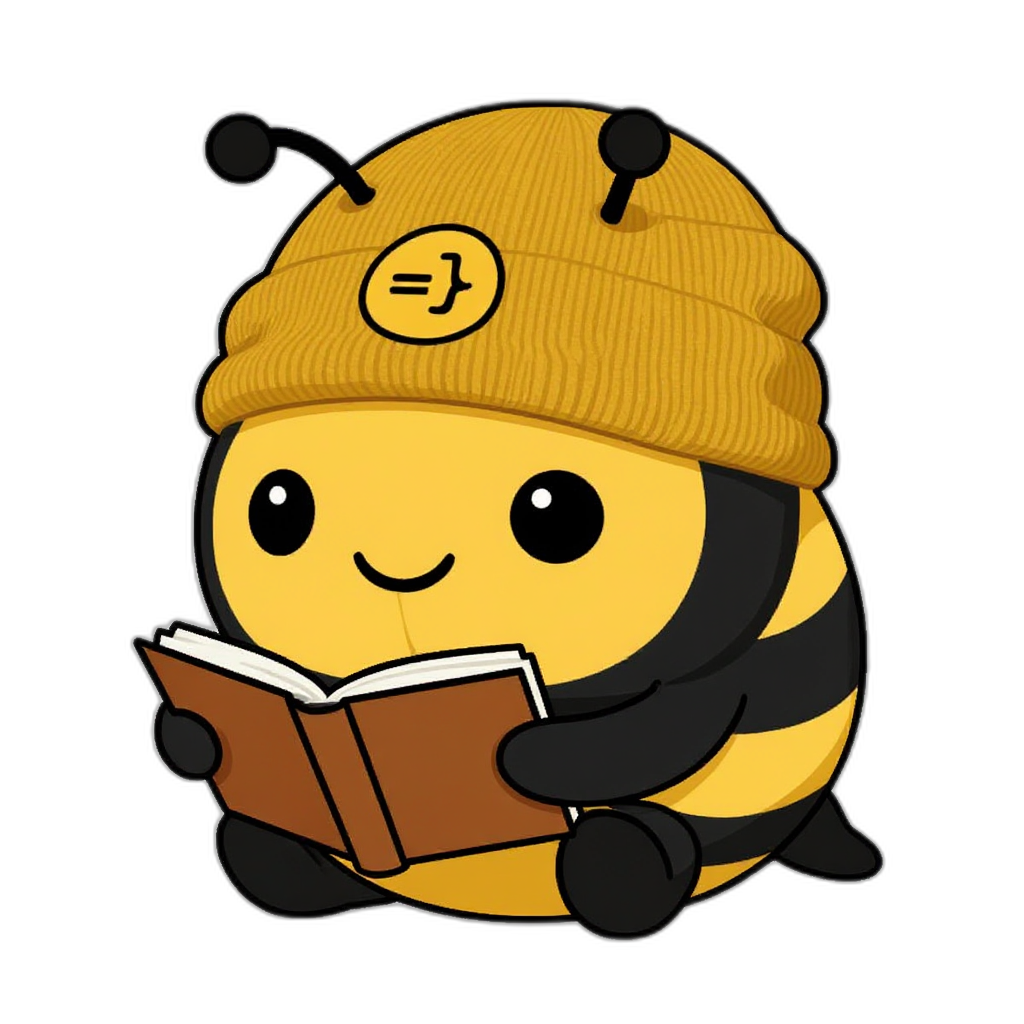
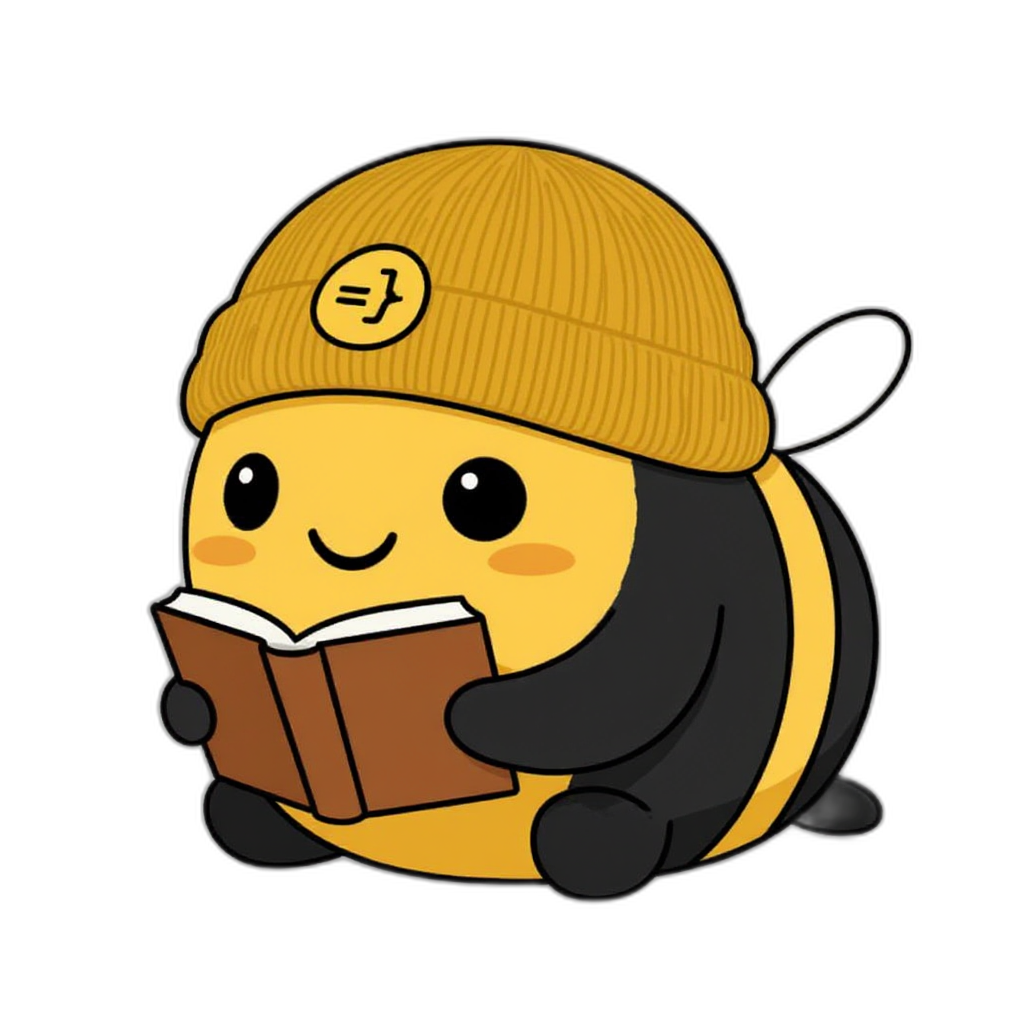
Added 44 bois.

Changed region(s): [[0.125, 0.0938, 0.875, 0.9375], [0.875, 0.3125, 0.9062, 0.375], [0.8438, 0.375, 0.875, 0.4062]]

diff --git a/app/src/ticket/operations.ts b/app/src/ticket/operations.ts
@@ -13,8 +13,8 @@ export const generateTicketImage: GenerateTicketImage<GenerateTicketImageInput, 
   // Generate a random 6-digit ticket number
   const ticketNumber = Math.floor(100000 + Math.random() * 900000);
 
-  // Select a random mascot image number (1-10)
-  const randomMascotNumber = Math.floor(Math.random() * 10) + 1;
+  // Select a random mascot image number (1-44)
+  const randomMascotNumber = Math.floor(Math.random() * 44) + 1;
 
   return {
     imageNumber: randomMascotNumber,
